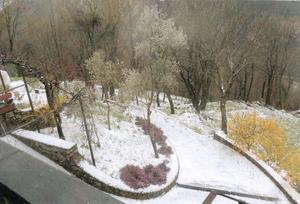
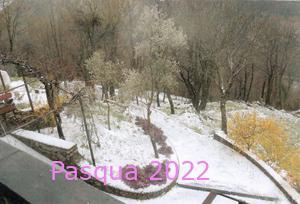
till 82

Changed region(s): [[0.15, 0.7647, 0.72, 0.9118]]

diff --git a/draft/index.html b/draft/index.html
@@ -195,6 +195,15 @@
       <img id="x_73" src="img/73.jpg">
       <img id="x_74" src="img/74.jpg">
       <img id="x_75" src="img/75.jpg">
+      <p id="x_t_20">Buon Natale!</p>
+      <img id="x_76" src="img/76.jpg">
+      <img id="x_77" src="img/77.jpg">
+      <img id="x_78" src="img/78.jpg">
+      <img id="x_79" src="img/79.jpg">
+      <img id="x_80" src="img/80.jpg">
+      <img id="x_81" src="img/81.jpg">
+      <p id="x_t_21">Poesia<br/> al mio<br/> Paese</p>
+      <img id="x_82" src="img/82.jpg">
     </div>
   </body>
 </html>

diff --git a/draft/css/barbeadis_pos.css b/draft/css/barbeadis_pos.css
@@ -91,3 +91,12 @@
 #x_73 {top: 7604px; left: 745px;}
 #x_74 {top: 7866px; left: 382px;}
 #x_75 {top: 7885px; left: 5px;}
+#x_t_20 {top: 8144.39px; left: 23px;}
+#x_76 {top: 8246px; left: 7px;}
+#x_77 {top: 8253px; left: 304px;}
+#x_78 {top: 8236px; left: 658px;}
+#x_79 {top: 8594px; left: 13px;}
+#x_80 {top: 8489px; left: 406px;}
+#x_81 {top: 8492px; left: 711px;}
+#x_t_21 {top: 8898.78px; left: 399px;}
+#x_82 {top: 8732px; left: 504px;}

diff --git a/utils/scale_down.py b/utils/scale_down.py
@@ -1,31 +1,46 @@
 import os
 import sys
 
-from PIL import Image
+from PIL import Image, ImageDraw, ImageFont
 
 DESTS = {
     2: {"img": (400, 400)},
     3: {"img": (500, 500)},
     16: {"img": (200, 200)},
     19: {"img": (500, 500)},
+    79: {"img": (500, 500)},
+    82: {"img": (500, 500)},
 }
-
 DEST_DEFAULTS = {
     "img_big": (800, 800),
     "img": (300, 300),
 }
+TEXTS = {
+    75: "Pasqua 2022",
+    78: "Mandi Mandi!",
+}
+TEXT_COLOR = "violet"
 
 
 def resize(src_dir, name, extension):
+    index = int(name)
     src_path = os.path.join(src_dir, name + extension)
     im = Image.open(src_path)
-    dests = DESTS.get(int(name), {})
+    dests = DESTS.get(index, {})
     for dest_dir, max_size_default in DEST_DEFAULTS.items():
         max_size = dests.get(dest_dir, max_size_default)
         dst_path = os.path.join(dest_dir, name + extension)
         print(dst_path, max_size)
         im.thumbnail(max_size, Image.LANCZOS)
         # im.resize(max_size, Image.LANCZOS)
+        text = TEXTS.get(index)
+        if dest_dir == 'img' and text:
+            left, top, right, bottom = im.getbbox()
+            print(index, text, left, top, right, bottom)
+            font = ImageFont.truetype("Verdana.ttf", size=25)
+            draw = ImageDraw.Draw(im)
+            draw.text((left + 50, bottom - 50), text, fill=TEXT_COLOR, font=font)
+            del draw
         im.save(dst_path)
 
 
